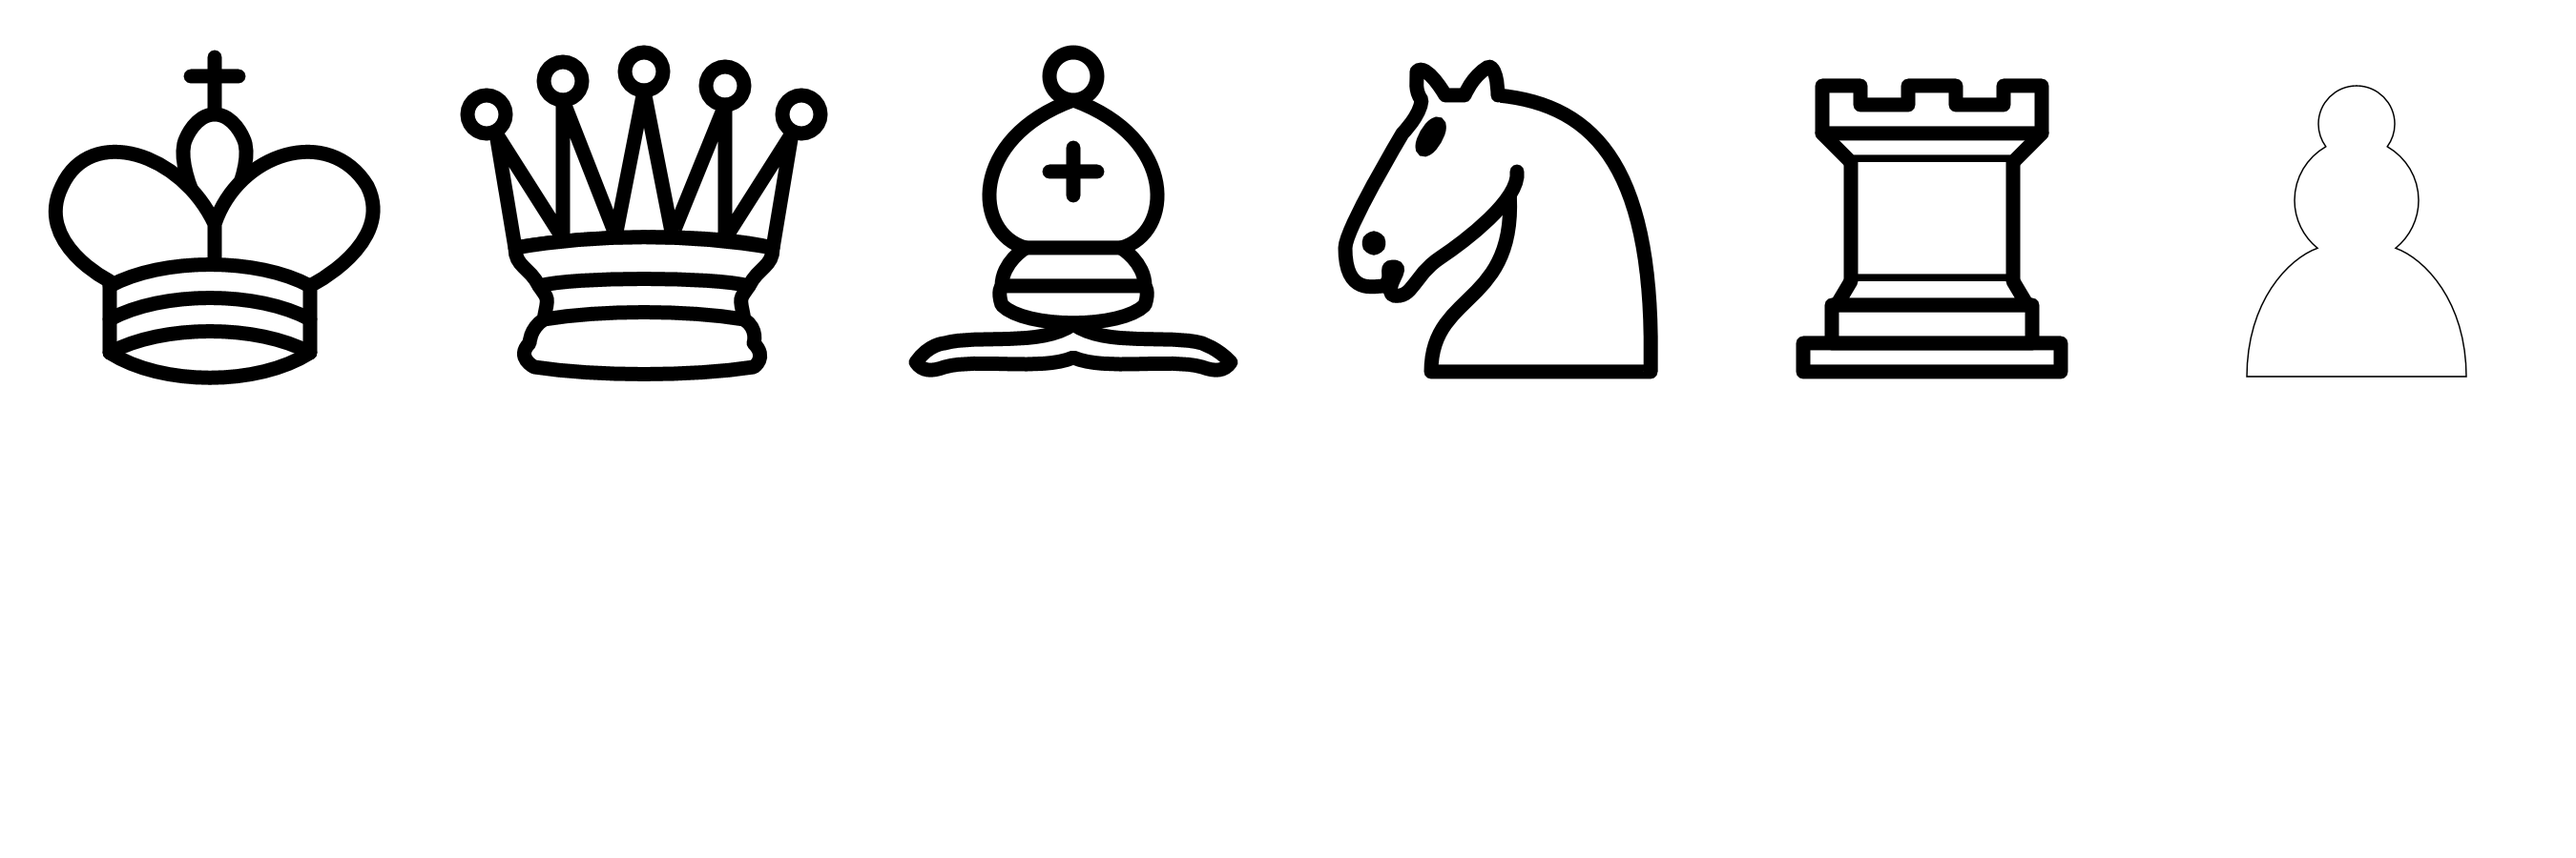
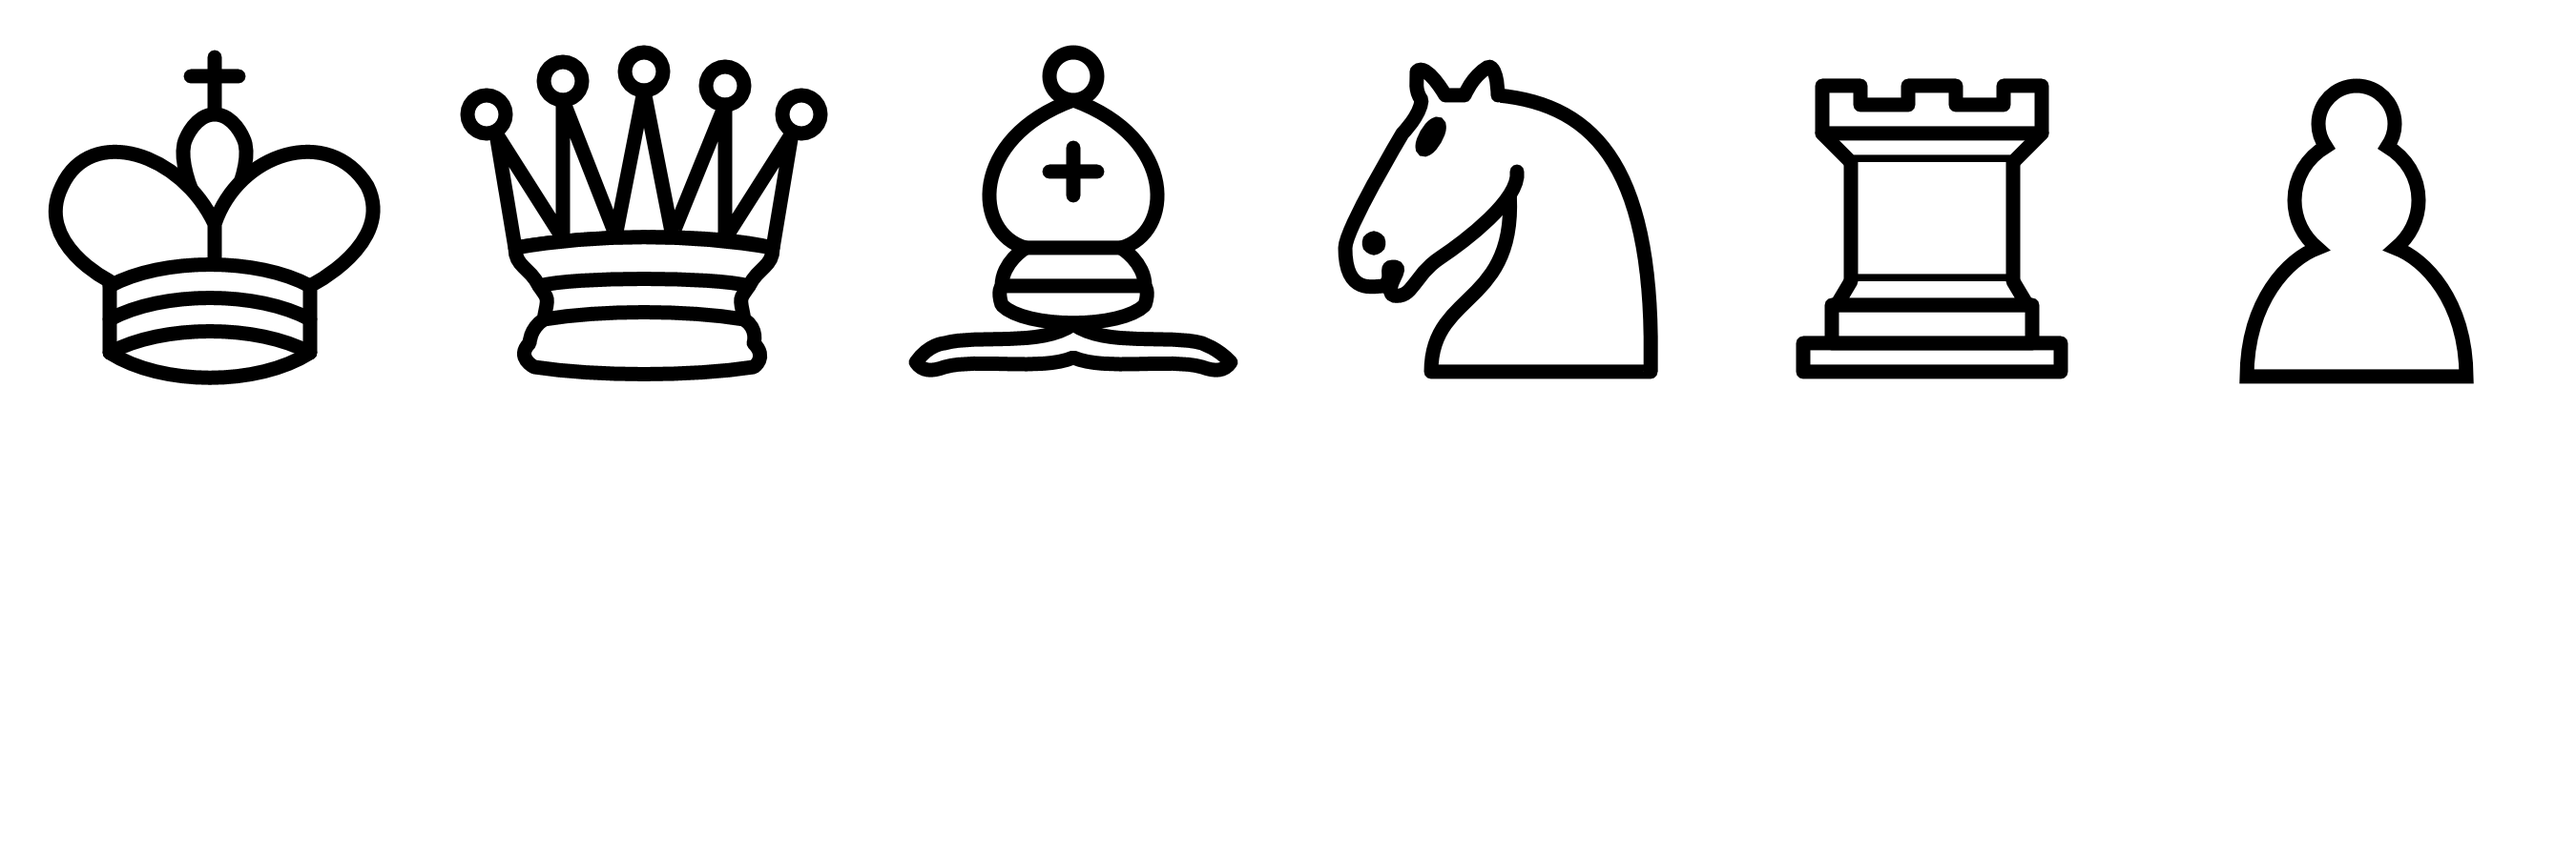
Added pawns

Changed region(s): [[0.8711, 0.0933, 0.9644, 0.4667]]

diff --git a/src/com/sillypantscoder/chess/game/pieces/PawnStandardMoveSet.java b/src/com/sillypantscoder/chess/game/pieces/PawnStandardMoveSet.java
@@ -1,0 +1,71 @@
+package com.sillypantscoder.chess.game.pieces;
+
+import java.util.HashSet;
+import java.util.NoSuchElementException;
+import java.util.Set;
+import java.util.stream.Collectors;
+
+import com.sillypantscoder.chess.game.Cell;
+import com.sillypantscoder.chess.game.Move;
+import com.sillypantscoder.chess.game.MoveSet;
+import com.sillypantscoder.chess.game.Piece;
+
+public class PawnStandardMoveSet extends MoveSet {
+	public Pawn pawn;
+	public String main_direction;
+	public boolean main_direction_reversed;
+	public PawnStandardMoveSet(Pawn pawn, String main_direction, boolean main_direction_reversed) {
+		this.pawn = pawn;
+		this.main_direction = main_direction;
+		this.main_direction_reversed = main_direction_reversed;
+	}
+	public Set<Move> getMoves(Cell context) {
+		Set<Move> moves = new HashSet<Move>();
+		// Get the moving piece
+		Piece movingPiece = context.piece.orElseThrow(() -> new NoSuchElementException("There needs to be a piece at the location defined by `context` (required in order to construct a Move object)"));
+		// Go forward and check what is there
+		Cell forwards = context.go(main_direction, main_direction_reversed);
+		if (forwards == null) return moves; // (??? should have promoted)
+		if (forwards.piece.isEmpty()) {
+			// We can move directly forward.
+			moves.add(new PawnForwardMove(context, movingPiece, forwards));
+			// Or if this is our first move, we can move 2 spaces.
+			if (this.pawn.moved == false) {
+				Cell forwards2 = forwards.go(main_direction, main_direction_reversed);
+				if (forwards2 != null) {
+					moves.add(new PawnForwardMove(context, movingPiece, forwards2));
+				}
+			}
+		}
+		// Look diagonally
+		Set<String> diagonalMoves = forwards.connections.keySet().stream().collect(Collectors.toSet());
+		for (String dir : diagonalMoves) {
+			if (dir == this.main_direction) continue;
+			Cell diagonal = forwards.go(dir, false);
+			diagonal.piece.ifPresent((v) -> {
+				moves.add(new Move.CaptureMove(context, movingPiece, diagonal, v));
+			});
+		}
+		Set<String> diagonalReversedMoves = forwards.reverseConnections.keySet().stream().collect(Collectors.toSet());
+		for (String dir : diagonalReversedMoves) {
+			if (dir == this.main_direction) continue;
+			Cell diagonal = forwards.go(dir, true);
+			diagonal.piece.ifPresent((v) -> {
+				moves.add(new Move.CaptureMove(context, movingPiece, diagonal, v));
+			});
+		}
+		// finish
+		return moves;
+	}
+	public static class PawnForwardMove extends Move.JumpMove {
+		public Pawn piece;
+		public PawnForwardMove(Cell originalLoc, Piece piece, Cell targetLoc) {
+			super(originalLoc, piece, targetLoc);
+			this.piece = (Pawn)(piece);
+		}
+		public void execute() {
+			super.execute();
+			this.piece.moved = true;
+		}
+	}
+}

diff --git a/src/com/sillypantscoder/chess/ChessWindow.java b/src/com/sillypantscoder/chess/ChessWindow.java
@@ -12,6 +12,7 @@ import com.sillypantscoder.chess.game.Piece;
 import com.sillypantscoder.chess.game.pieces.Bishop;
 import com.sillypantscoder.chess.game.pieces.King;
 import com.sillypantscoder.chess.game.pieces.Knight;
+import com.sillypantscoder.chess.game.pieces.Pawn;
 import com.sillypantscoder.chess.game.pieces.Queen;
 import com.sillypantscoder.chess.game.pieces.Rook;
 import com.sillypantscoder.utils.Utils;
@@ -32,6 +33,8 @@ public class ChessWindow extends Window {
 		this.board.cells.get("3, 3").piece = Optional.of(new Bishop());
 		this.board.cells.get("4, 6").piece = Optional.of(new Queen());
 		this.board.cells.get("7, 7").piece = Optional.of(new King());
+		this.board.cells.get("7, 6").piece = Optional.of(new Pawn("up", false));
+		this.board.cells.get("0, 2").piece = Optional.of(new Pawn("left", true));
 		this.selectedPiece = Optional.empty();
 	}
 	public void open() {

diff --git a/src/com/sillypantscoder/chess/game/pieces/Pawn.java b/src/com/sillypantscoder/chess/game/pieces/Pawn.java
@@ -1,0 +1,18 @@
+package com.sillypantscoder.chess.game.pieces;
+
+import com.sillypantscoder.chess.game.Piece;
+
+public class Pawn extends Piece {
+	public boolean moved;
+	public Pawn(String mainDirection, boolean mainDirectionReversed) {
+		super();
+		this.moved = false;
+		this.moveSets.add(new PawnStandardMoveSet(this, mainDirection, mainDirectionReversed));
+	}
+	public String getName() {
+		return "Pawn";
+	}
+	public int[] getIconPos() {
+		return new int[] { 5, 0 };
+	}
+}
